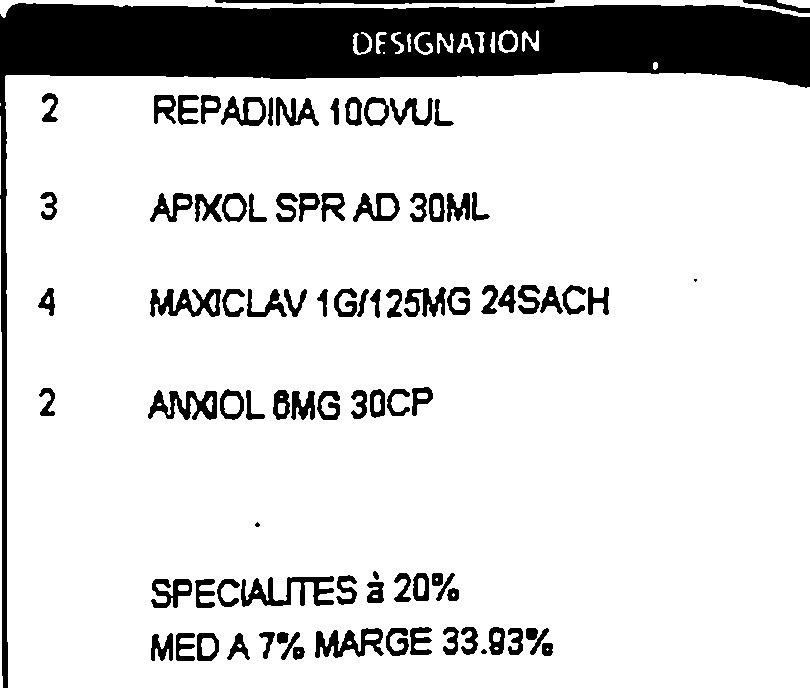
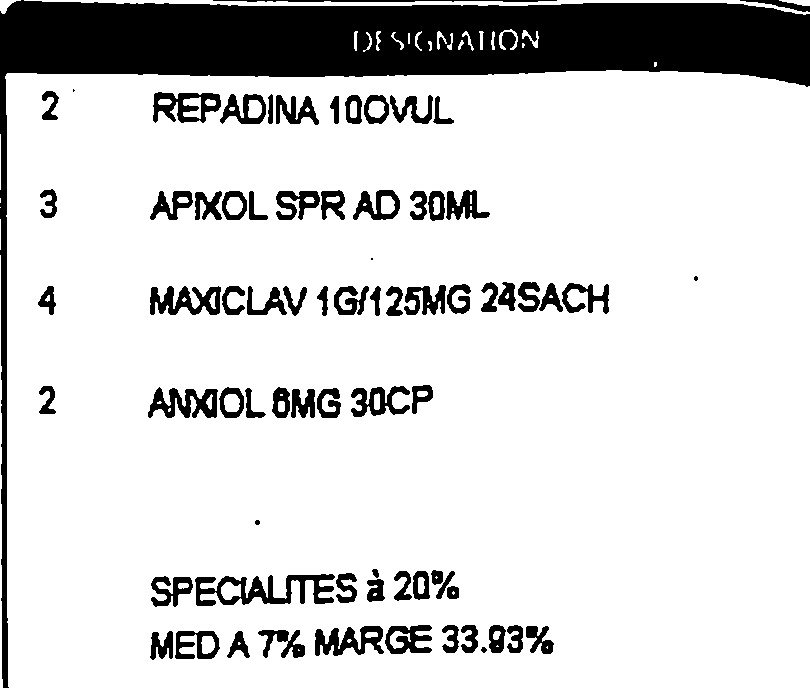
change pc sophatel 15-04-2024 15:10 - filter worked in preProcessingImgtext.py for the bl croped

diff --git a/src/prePorcessingImgText.py b/src/prePorcessingImgText.py
@@ -66,9 +66,9 @@ def deskew(image):
 
 def noise_removal(image):
     import numpy as np
-    kernel = np.ones((2, 1), np.uint8)
+    kernel = np.ones((1, 1), np.uint8)
     image = cv2.dilate(image, kernel, iterations=1)
-    kernel = np.ones((2, 1), np.uint8)
+    kernel = np.ones((1, 1), np.uint8)
     image = cv2.erode(image, kernel, iterations=1)
     image = cv2.morphologyEx(image, cv2.MORPH_CLOSE, kernel)
     image = cv2.medianBlur(image, 3)
@@ -78,7 +78,7 @@ def noise_removal(image):
 def thin_font(image):
     import numpy as np
     image = cv2.bitwise_not(image)
-    kernel = np.ones((1, 3), np.uint8)  # should be (2,2)
+    kernel = np.ones((2, 2), np.uint8)  # should be (2,2)
     image = cv2.erode(image, kernel, iterations=1)
     image = cv2.bitwise_not(image)
     return (image)
@@ -87,7 +87,7 @@ def thin_font(image):
 def thick_font(image):
     import numpy as np
     image = cv2.bitwise_not(image)
-    kernel = np.ones((2, 2), np.uint8)
+    kernel = np.ones((3, 3), np.uint8)
     image = cv2.dilate(image, kernel, iterations=1)
     image = cv2.bitwise_not(image)
     return (image)
@@ -110,7 +110,7 @@ gray_image = cv2.cvtColor(original_image, cv2.COLOR_RGB2GRAY)  # cv2.COLOR_BGR2G
 
 
 # 3 - Threshold - Apply thresholding to create a binary image
-_, binary_image = cv2.threshold(gray_image, 0, 255, cv2.THRESH_BINARY + cv2.THRESH_OTSU)  # cv2.THRESH_OTSU
+_, binary_image = cv2.threshold(gray_image, 210, 255, cv2.THRESH_BINARY )  # cv2.THRESH_OTSU
 
 # 4 - Noise Removal
 no_noise = noise_removal(binary_image)
